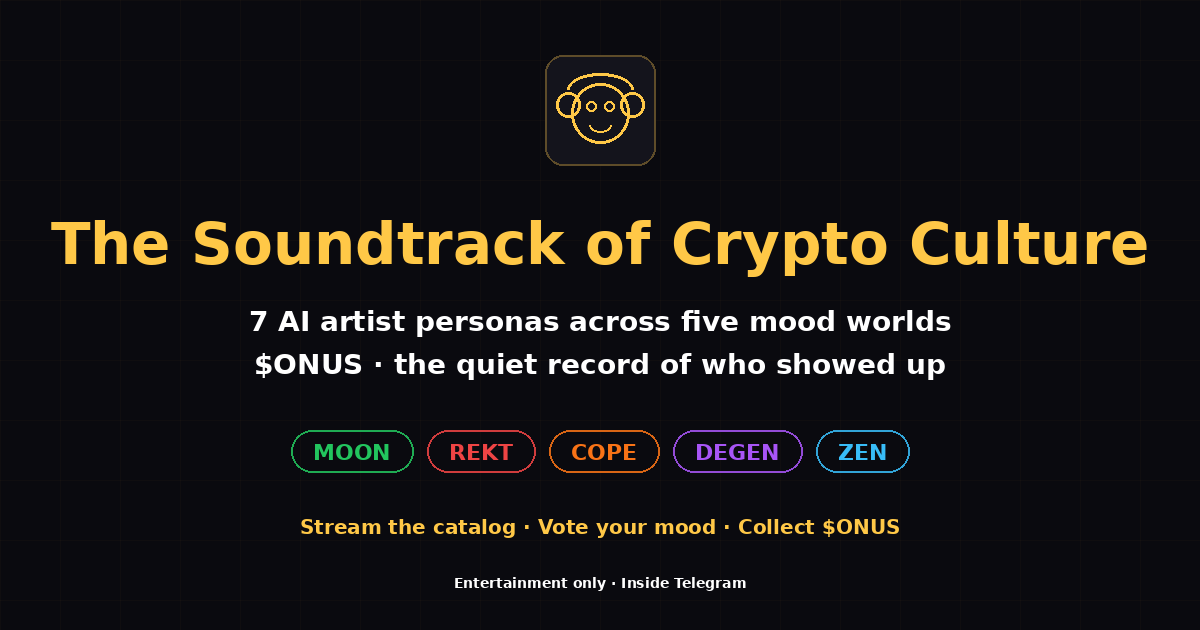
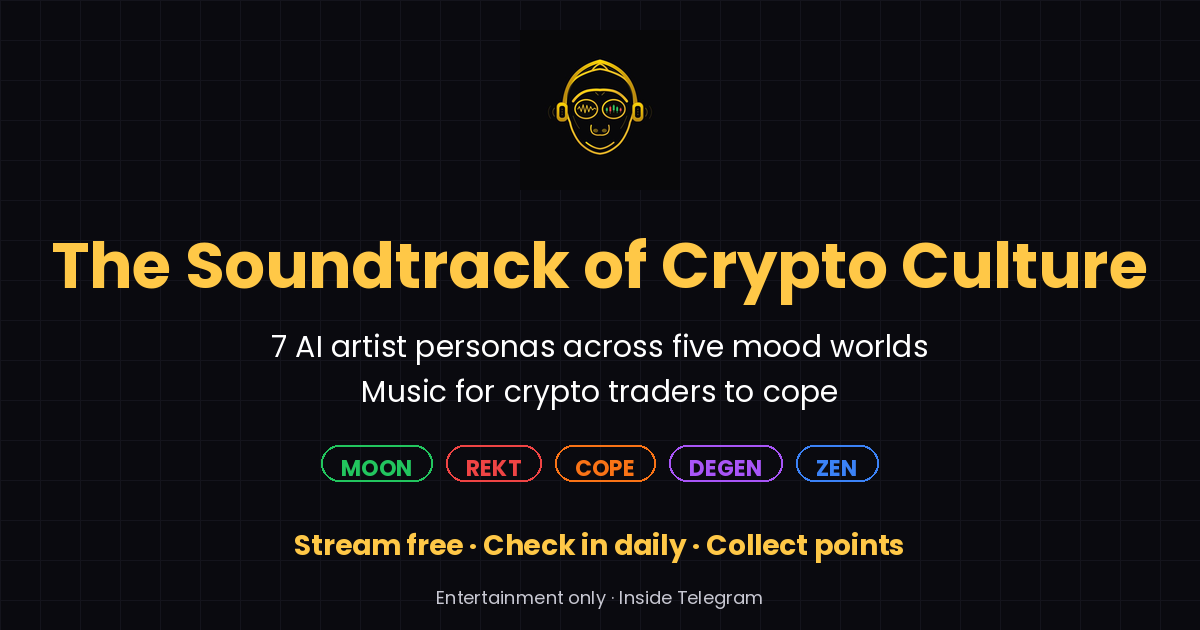
feat(site): revamp for simplified vision + new OG image
Strips Arena, Genesis, Weekly Top 10, and $ONUS references from
the single-page site, and replaces the link-preview image with a
version that matches the new product framing.

HTML (-11,216 bytes): meta descriptions (x3) swap '$ONUS, the
quiet record' for 'Free inside Telegram'. Story section drops
the arena-competition framing and the 'deeper arenas' roadmap
line. Phone showcase swaps the arena screenshot for profile.
Features grid cuts from six cards to four, with Challenge Arena
and Weekly Top 10 removed in full, Market Pulse stripped of the
$ONUS earn claim, and 7-Day Streaks updated to specify the flat
100 points reward. Genesis Badge section removed entirely. The
rewards overlay is replaced with a short How Points Work page
covering the one earn path and the legal disclaimers.

OG image (public/og-image.png): regenerated at 1200x630 using
the real APESONUS logo. Two $ONUS-carrying lines swapped:
  'the quiet record of who showed up'
    becomes 'Music for crypto traders to cope'
  'Stream the catalog · Vote your mood · Collect $ONUS'
    becomes 'Stream free · Check in daily · Collect points'

Link previews across Twitter, Telegram, Discord, WhatsApp, and
iMessage will recrawl and update within 24-48 hours. Telegram
caches aggressively and may need a @WebpageBot refresh to pick
up the new image sooner.

Changed region(s): [[0.0308, 0.3317, 0.9558, 0.7841], [0.2467, 0.8143, 0.7708, 0.9651], [0.4625, 0.0603, 0.555, 0.2714]]

diff --git a/public/index.html b/public/index.html
@@ -4,7 +4,7 @@
 <meta charset="UTF-8">
 <meta name="viewport" content="width=device-width, initial-scale=1.0">
 <title>APESONUS — The Soundtrack of Crypto Culture</title>
-<meta name="description" content="The soundtrack of crypto culture. 7 AI artist personas across five mood worlds, and $ONUS, the quiet record of everyone who showed up.">
+<meta name="description" content="The soundtrack of crypto culture. 7 AI artist personas across five mood worlds,. Free inside Telegram.">
 <meta name="robots" content="index, follow">
 <link rel="canonical" href="https://apesonus.com">
 <link rel="icon" type="image/png" sizes="192x192" href="/icons/icon-192.png">
@@ -20,12 +20,12 @@
 <meta property="og:image:alt" content="APESONUS — The Soundtrack of Crypto Culture">
 <meta name="twitter:card" content="summary_large_image">
 <meta name="twitter:title" content="APESONUS — The Soundtrack of Crypto Culture">
-<meta name="twitter:description" content="The soundtrack of crypto culture. 7 AI artist personas across five mood worlds, and $ONUS, the quiet record of everyone who showed up.">
+<meta name="twitter:description" content="The soundtrack of crypto culture. 7 AI artist personas across five mood worlds,. Free inside Telegram.">
 <meta name="twitter:image" content="https://apesonus.com/og-image.png">
 <meta name="twitter:image:alt" content="APESONUS — The Soundtrack of Crypto Culture">
 <meta name="theme-color" content="#060609">
 <meta property="og:title" content="APESONUS — The Soundtrack of Crypto Culture">
-<meta property="og:description" content="The soundtrack of crypto culture. 7 AI artist personas across five mood worlds, and $ONUS, the quiet record of everyone who showed up.">
+<meta property="og:description" content="The soundtrack of crypto culture. 7 AI artist personas across five mood worlds,. Free inside Telegram.">
 <link rel="preconnect" href="https://fonts.googleapis.com">
 <link href="https://fonts.googleapis.com/css2?family=Outfit:wght@300;400;500;600;700;800;900&family=Crimson+Pro:ital,wght@0,400;0,600;1,400&display=swap" rel="stylesheet">
 <style>
@@ -61,11 +61,11 @@ footer{border-top:1px solid var(--w10);padding:50px 0 36px}.footer-inner{display
 <p><em>APESONUS is that music.</em></p>
 <p>7 AI artist personas, each of them someone you already recognise, because you've sat in group chats with every one of them. The bull who refuses to stop believing, the poet who turns a liquidation into a love song, the shill who's somehow in on the joke about himself, and the quiet one who finally says the thing everybody else has been thinking for days.</p>
 <p>The stories don't run out because the market keeps creating them. A rug or a pump is a song, and even those slow, sideways weeks where nothing moves and everyone's quietly losing it become one too. It's all material.</p>
-<p>But APESONUS is not only something you listen to, it is somewhere you show up, checking in on the mood of the market, competing in the weekly arena, making your call on what comes next, and backing the artist whose story you actually believe in. <strong>$ONUS</strong> is the quiet record of you having been there, and the music is what gets you in, while the culture is what keeps you coming back.</p>
-<p>What is live today is only the opening chapter, and more is being built in the background, deeper arenas, richer interactions with the characters, and eventually a kind of influence from the community itself on where APESONUS goes next. Each piece ships when it is genuinely ready, and until then, showing up consistently is how you stay in the room where all of this is being decided.</p>
+<p>But APESONUS is not only something you listen to, it is somewhere you show up. You check in on the mood of the market, you build a streak by returning each day, and the music is what gets you in while the culture is what keeps you coming back.</p>
+<p>What is live today is only the opening chapter. More is being built in the background, richer interactions with the characters, new music arriving on its own schedule, and eventually a kind of influence from the community itself on where APESONUS goes next. Each piece ships when it is genuinely ready, and until then, showing up consistently is how you stay in the room where all of this is being decided.</p>
 </div></section>
 
-<section style="padding:40px 0 80px"><div class="container section-center"><div class="reveal"><h2 class="section-title">Built for Telegram. Feels Like Home.</h2></div><div class="showcase"><div class="phone reveal reveal-d1"><img src="/screens/screen-home.jpg" alt="Home" loading="lazy"></div><div class="phone center reveal reveal-d2"><img src="/screens/screen-player.jpg" alt="Player" loading="lazy"></div><div class="phone reveal reveal-d3"><img src="/screens/screen-arena.jpg" alt="Arena" loading="lazy"></div></div></div></section>
+<section style="padding:40px 0 80px"><div class="container section-center"><div class="reveal"><h2 class="section-title">Built for Telegram. Feels Like Home.</h2></div><div class="showcase"><div class="phone reveal reveal-d1"><img src="/screens/screen-home.jpg" alt="Home" loading="lazy"></div><div class="phone center reveal reveal-d2"><img src="/screens/screen-player.jpg" alt="Player" loading="lazy"></div><div class="phone reveal reveal-d3"><img src="/screens/screen-profile.jpg" alt="Profile" loading="lazy"></div></div></div></section>
 
 <section id="artists"><div class="container section-center"><div class="reveal"><div class="section-tag">The Roster</div><h2 class="section-title">Seven Personas. Each One From the Culture.</h2><p class="section-desc">You already know these people. You've argued with them. You might be one of them.</p></div>
 <div class="artists-grid">
@@ -87,80 +87,34 @@ footer{border-top:1px solid var(--w10);padding:50px 0 36px}.footer-inner{display
 <div class="mood-card reveal reveal-d5" style="border-color:rgba(59,130,246,0.12)"><div class="mood-emoji">🌊</div><div class="mood-name" style="color:#3b82f6">ZEN</div><div class="mood-desc">Clarity. Acceptance. The long view.</div></div>
 </div></div></section>
 
-<section id="how-it-works"><div class="container section-center"><div class="reveal"><div class="section-tag">The Platform</div><h2 class="section-title">More Than Music. A Place to Show Up.</h2><p class="section-desc">Six ways the app pays attention to you being there.</p></div>
+<section id="how-it-works"><div class="container section-center"><div class="reveal"><div class="section-tag">The Platform</div><h2 class="section-title">More Than Music. A Place to Show Up.</h2><p class="section-desc">How the app pays attention to you being there.</p></div>
 <div class="features-grid">
 <div class="feature-card reveal reveal-d1"><div class="feature-icon">🎵</div><div class="feature-title">Free Streaming</div><div class="feature-desc">The entire catalogue is free, for everyone, with no ads and no gates. Open the Mini App inside Telegram and tap play.</div></div>
-<div class="feature-card reveal reveal-d2"><div class="feature-icon">📊</div><div class="feature-title">Market Pulse</div><div class="feature-desc">One daily tap to commit to a reading on where the market feels like it's heading, and you collect $ONUS while also seeing which way the culture is leaning.</div></div>
-<div class="feature-card reveal reveal-d3"><div class="feature-icon">🔥</div><div class="feature-title">7-Day Streaks</div><div class="feature-desc">Show up for seven days in a row, and on the seventh day the streak closes with a bonus that lands in your balance, scaling up with each completed cycle. Miss a day and the counter starts over, so consistency becomes its own reward.</div></div>
-<div class="feature-card reveal reveal-d4"><div class="feature-icon">⚔</div><div class="feature-title">Challenge Arena</div><div class="feature-desc">Challenges drop on a rolling schedule across the catalogue, and the format stays close to how you already listen. You hear a snippet or read a lyric, pick the answer you recognise, and you get one shot before the window closes. Correct answers pay out in $ONUS.</div></div>
+<div class="feature-card reveal reveal-d2"><div class="feature-icon">📊</div><div class="feature-title">Market Pulse</div><div class="feature-desc">One daily tap to commit to a reading on where the market feels like it's heading, and you see which way the culture is leaning before anyone else commits.</div></div>
+<div class="feature-card reveal reveal-d3"><div class="feature-icon">🔥</div><div class="feature-title">7-Day Streaks</div><div class="feature-desc">Show up for seven days in a row, and on the seventh day the streak closes with 100 points landing in your balance. Miss a day and the counter starts over, so consistency becomes its own reward.</div></div>
 <div class="feature-card reveal reveal-d5"><div class="feature-icon">📈</div><div class="feature-title">Weekly Chart</div><div class="feature-desc">The chart ranks tracks by unique listeners rather than total plays, which is the cleanest signal of what the room is actually listening to this week.</div></div>
-<div class="feature-card reveal reveal-d6"><div class="feature-icon">🏆</div><div class="feature-title">Weekly Top 10</div><div class="feature-desc">Every week, the ten people who collected the most $ONUS are ranked on a live leaderboard that resets Monday morning. Consistency across streaks, mood votes, and the arena is what writes your name into it, and every week starts from zero.</div></div>
 </div>
 <div class="reveal" style="margin-top:40px"><a href="javascript:void(0)" onclick="openOverlay()" class="btn-gold-outline">See How Rewards Work →</a></div>
 </div></section>
-
-<section id="verify"><div class="container section-center"><div class="reveal"><h2 class="section-title">The Genesis Badge. Earned, Not Purchased.</h2><p class="section-desc">The first hundred people to collect ten thousand $ONUS within the forty-five day launch window mint the permanent Genesis Badge. Once the cap fills, the badge closes forever.</p></div>
-<div class="tiers-grid">
-<div class="tier-card genesis reveal reveal-d1"><div class="tier-name" style="color:var(--gold)">Genesis Badge</div><div class="tier-mult" style="color:var(--gold)">10,000</div><div class="tier-onus">$ONUS to mint · First 100 only</div><div class="tier-cap">45-day window</div><div class="tier-desc">Permanent founder badge with your holder number etched in, and an automatic daily bonus of 100 $ONUS that never stops. First 100 through the door receive the distinct Top 100 Founder treatment.</div></div>
-<div class="tier-card reveal reveal-d2"><div class="tier-name" style="color:var(--gold)">Weekly Top 10</div><div class="tier-mult" style="color:var(--gold)">Top 10</div><div class="tier-onus">Live rankings · Resets Monday</div><div class="tier-cap">Open to everyone</div><div class="tier-desc">The ten highest $ONUS collectors of the week are ranked on a live leaderboard that resets every Monday. Open to every user, regardless of badge status, and every week is a fresh run.</div></div>
-<div class="tier-card reveal reveal-d3"><div class="tier-name" style="color:#b48c64">Daily Rhythm</div><div class="tier-mult" style="color:#b48c64">1×</div><div class="tier-onus">Flat rate for everyone</div><div class="tier-cap">Always free</div><div class="tier-desc">Every user collects at the same rate for the same actions. No tiers, no multipliers, no paywall. The only thing that separates anyone is how often they show up.</div></div>
-</div></div></section>
 
 <section style="text-align:center;padding:70px 28px 30px"><div class="reveal"><p style="font-family:'Crimson Pro',serif;font-size:20px;color:var(--w60);font-style:italic;max-width:560px;margin:0 auto 36px">"The culture has a soundtrack now. You're either in it or you're hearing about it later."</p><a href="https://t.me/ApeSonusBot/app" target="_blank" rel="noopener" class="btn-gold-lg">🐒 Open APESONUS</a></div></section>
 
 <footer><div class="container"><div class="footer-inner"><div class="footer-brand"><div class="logo"><img src="/logo.png" alt="APESONUS" style="height:28px;width:28px;object-fit:contain;margin-right:8px"><span>APE</span><span>SONUS</span></div><p>The soundtrack of crypto culture. 7 AI artist personas. Five mood worlds. Built on Telegram.</p></div><div class="footer-cols"><div class="footer-col"><h4>Product</h4><a href="https://t.me/ApeSonusBot/app" target="_blank">Open App</a><a href="https://t.me/ApeSonus" target="_blank">Community</a><a href="javascript:void(0)" onclick="openOverlay()">How Rewards Work</a></div><div class="footer-col"><h4>Legal</h4><a href="https://app.apesonus.com/terms">Terms</a><a href="https://app.apesonus.com/privacy">Privacy</a></div></div></div><div class="footer-bottom"><p>© 2026 APESONUS. All rights reserved.</p></div></div></footer>
 
 <div id="rewards-overlay" class="overlay"><div class="overlay-header"><div class="logo"><img src="/logo.png" alt="APESONUS" style="height:28px;width:28px;object-fit:contain;margin-right:8px"><span>APE</span><span>SONUS</span></div><button class="overlay-close" onclick="closeOverlay()">✕ Close</button></div><div class="overlay-body">
-<h2>How Rewards Work</h2>
-<p>Everything in APESONUS is built on a simple idea, which is that showing up and being rewarded should happen at the same moment, without checklists, without manufactured daily chores, and without the kind of engagement loops that feel like a second job. The app pays attention to what you were already going to do if you liked it here.</p>
+<h2>How Points Work</h2>
+<p>APESONUS is free to stream for everyone. Points are a simple recognition count that accumulates as you use the app, with no race, no cap, and no expiry.</p>
 
-<h3>$ONUS, The Culture Currency</h3>
-<p>$ONUS is how the culture keeps score of itself. You cannot buy it and you cannot sell it, and it accumulates in the background as you move through the app, whether you are checking in, extending a streak, voting on a forecast, competing in the arena, or backing the artist whose story you believe in. Think of it less as a balance and more as a receipt for having been present while something was being built.</p>
-<p style="opacity:0.7;font-size:0.9em"><em>$ONUS is an in-app culture currency with no cash value. It cannot be withdrawn, traded for real money, or sent outside APESONUS. It is not a security, not an investment, and APESONUS makes no representations or promises about any future form $ONUS may take.</em></p>
-<div class="stat-row"><div class="stat-box"><div class="stat-num">10B</div><div class="stat-label">Total Supply</div></div><div class="stat-box"><div class="stat-num">8B</div><div class="stat-label">User Pool</div></div><div class="stat-box"><div class="stat-num">2B</div><div class="stat-label">Team Reserve</div></div></div>
-<p>The total supply is fixed at ten billion, of which eight belong to the people who show up, and when that pool is exhausted, distribution simply ends. There is no mechanism to print more, and no plan to invent one later.</p>
+<h3>How you earn them</h3>
+<p>There is one way to earn points inside APESONUS today. Complete a 7-day listening streak, and on the seventh day 100 points land in your balance. Miss a day and the streak resets to one. That is the whole system.</p>
 
-<h3>The Genesis Badge</h3>
-<p>The Genesis Badge is earned, not purchased, and there is exactly one way to mint it, which is to collect ten thousand $ONUS within the forty-five day launch window while the window is still open and while slots remain. The cap is one hundred badges, nothing more, and once filled the door closes regardless of how many days are left on the clock.</p>
-<p>Holders keep the badge permanently, receive an automatic hundred $ONUS every twenty-four hours for as long as the app exists, and wear their founder number etched into the card. The first hundred people through the door also receive the distinct <strong>Top 100 Founder</strong> marker, a layer of prestige that stays with them and cannot be matched by anyone arriving later.</p>
-<div class="tier-row"><div class="tier-pill"><div class="mult" style="color:var(--gold)">100</div><div class="label">Slots total</div></div><div class="tier-pill"><div class="mult" style="color:var(--gold)">10,000</div><div class="label">$ONUS to mint</div></div><div class="tier-pill"><div class="mult" style="color:var(--gold)">45</div><div class="label">Day window</div></div></div>
+<h3>What points do</h3>
+<p>For now, points exist as a quiet record of the weeks you showed up. They have no cash value, cannot be withdrawn, cannot be traded for real money, and are not an investment of any kind.</p>
+<p>More ways to use points may arrive as the platform matures. Anything we build will be announced before it ships.</p>
 
-<h3>One Rate for Everyone</h3>
-<p>Every user collects $ONUS at the same rate for the same action. The old split between a paid tier and a free tier is gone, and in its place is a single flat rate that applies to check-ins, streaks, arena wins, and every other way the app rewards you for showing up. The Genesis Badge changes what it means to have been here early, not what you earn per tap.</p>
+<p style="color:var(--w30);font-size:13px;margin-top:30px"><em>Points are an in-app recognition count with no cash value. They cannot be withdrawn, traded for real money, or sent outside APESONUS. Points are not a security, not an investment, and APESONUS makes no representations or promises about any future form points may take.</em></p>
 
-<h3>Every Way to Collect</h3>
-<p>These are the actual $ONUS amounts every user collects for each action, with no multipliers to compute and no tier to verify.</p>
-<div style="overflow-x:auto;margin:24px 0 8px"><table style="width:100%;border-collapse:collapse;font-size:14px"><thead><tr style="border-bottom:1px solid var(--w10)"><th style="text-align:left;padding:10px 12px;color:var(--w60);font-weight:600;font-size:11px;letter-spacing:0.06em;text-transform:uppercase">Activity</th><th style="text-align:right;padding:10px 12px;color:var(--gold);font-weight:600;font-size:11px;letter-spacing:0.06em;text-transform:uppercase">Reward</th><th style="text-align:right;padding:10px 12px;color:var(--w60);font-weight:600;font-size:11px;letter-spacing:0.06em;text-transform:uppercase">Notes</th></tr></thead><tbody>
-<tr style="border-bottom:1px solid var(--w10)"><td style="padding:10px 12px;color:var(--w80)">Daily mood check-in</td><td style="padding:10px 12px;text-align:right;color:var(--gold);font-weight:700">30</td><td style="padding:10px 12px;text-align:right;color:var(--w60);font-size:12px">Once per day</td></tr>
-<tr style="border-bottom:1px solid var(--w10)"><td style="padding:10px 12px;color:var(--w80)">7-day streak (cycle 1)</td><td style="padding:10px 12px;text-align:right;color:var(--gold);font-weight:700">500</td><td style="padding:10px 12px;text-align:right;color:var(--w60);font-size:12px">Completes on day 7</td></tr>
-<tr style="border-bottom:1px solid var(--w10)"><td style="padding:10px 12px;color:var(--w80)">7-day streak (cycle 2)</td><td style="padding:10px 12px;text-align:right;color:var(--gold);font-weight:700">600</td><td style="padding:10px 12px;text-align:right;color:var(--w60);font-size:12px">&nbsp;</td></tr>
-<tr style="border-bottom:1px solid var(--w10)"><td style="padding:10px 12px;color:var(--w80)">7-day streak (cycle 3)</td><td style="padding:10px 12px;text-align:right;color:var(--gold);font-weight:700">700</td><td style="padding:10px 12px;text-align:right;color:var(--w60);font-size:12px">&nbsp;</td></tr>
-<tr style="border-bottom:1px solid var(--w10)"><td style="padding:10px 12px;color:var(--w80)">7-day streak (cycle 4+)</td><td style="padding:10px 12px;text-align:right;color:var(--gold);font-weight:700">1,000</td><td style="padding:10px 12px;text-align:right;color:var(--w60);font-size:12px">Capped at cycle 4</td></tr>
-<tr style="border-bottom:1px solid var(--w10)"><td style="padding:10px 12px;color:var(--w80)">Arena challenge correct</td><td style="padding:10px 12px;text-align:right;color:var(--gold);font-weight:700">100–500</td><td style="padding:10px 12px;text-align:right;color:var(--w60);font-size:12px">Admin-set per challenge</td></tr>
-<tr style="border-bottom:1px solid var(--w10)"><td style="padding:10px 12px;color:var(--w80)">Referral verified</td><td style="padding:10px 12px;text-align:right;color:var(--gold);font-weight:700">50</td><td style="padding:10px 12px;text-align:right;color:var(--w60);font-size:12px">Both sides</td></tr>
-<tr><td style="padding:10px 12px;color:var(--w80)">Genesis Badge daily grant</td><td style="padding:10px 12px;text-align:right;color:var(--gold);font-weight:700">100</td><td style="padding:10px 12px;text-align:right;color:var(--w60);font-size:12px">Badge holders, every 24h</td></tr>
-</tbody></table></div>
-
-<h3>Daily Rhythms</h3>
-<p>The <strong>Market Pulse</strong> is a single daily tap where you commit to a reading on the mood of the market, whether bullish, bearish, or neutral, and you collect $ONUS while also getting to see which way the broader culture is leaning before anyone else commits.</p>
-<p>The <strong>seven-day streak</strong> is exactly what it sounds like, which is to say you show up for seven consecutive days, and when the streak closes, the bonus lands in your balance, scaling up with each completed cycle. Miss a day and the counter starts over.</p>
-
-<h3>The Challenge Arena</h3>
-<p>Each week the arena focuses on a single artist, and every challenge that week is built around their catalogue, whether that means recognising a snippet, naming a track, or matching a mood to a song. You have to have actually listened to know the answers, which is the point. Correct answers pay out in $ONUS.</p>
-
-<h3>The Weekly Chart</h3>
-<p>The weekly chart ranks tracks by unique listeners rather than total plays, which means it reflects how many different people a song actually reached, not how many times one devoted fan put it on repeat. It is the cleanest signal of what the room is actually listening to this week.</p>
-
-<h3>The Weekly Top 10 Leaderboard</h3>
-<p>At the end of every week, the ten people who collected the most $ONUS are recognised on the Weekly Top 10 leaderboard. The ranking is based on total $ONUS collected Monday through Sunday, resets on Monday morning, and is open to every user regardless of badge status.</p>
-<p>Streaks count. Mood votes count. Arena wins count. Everything stacks, and the person who showed up the most consistently that week is usually the person whose name is at the top.</p>
-
-<h3>What Comes Next</h3>
-<p>What is live today is the opening chapter. More is being built in the background, carefully and without urgency, including deeper arenas, richer ways to interact with the characters, and eventually a kind of influence from the community itself on where APESONUS goes next.</p>
-<p>$ONUS is a culture score today, and what it becomes in time depends entirely on what the culture becomes. The people collecting early are the ones writing that next chapter, not an audience waiting to be told how it ends.</p>
-<p style="color:var(--w30);font-size:13px;margin-top:18px"><em>$ONUS is and remains an in-app culture currency. It has no cash value, cannot be withdrawn, cannot be traded for real money, and is not an investment. Any future evolution of the platform will respect the disclaimers on this page and all applicable regulations in the relevant jurisdictions.</em></p>
-
-<div style="text-align:center;margin-top:50px;display:flex;gap:14px;justify-content:center;flex-wrap:wrap"><a href="https://t.me/ApeSonusBot/app" target="_blank" rel="noopener" class="btn-gold-lg">🐒 Open APESONUS</a><a href="/ONUS_REWARDS_GUIDE.jpg" download class="btn-gold-outline" style="display:inline-block;padding:16px 34px;font-size:15px">⬇ Download as Image</a></div>
+<div style="text-align:center;margin-top:50px"><a href="https://t.me/ApeSonusBot/app" target="_blank" rel="noopener" class="btn-gold-lg">🐒 Open APESONUS</a></div>
 </div></div>
 
 <script>
